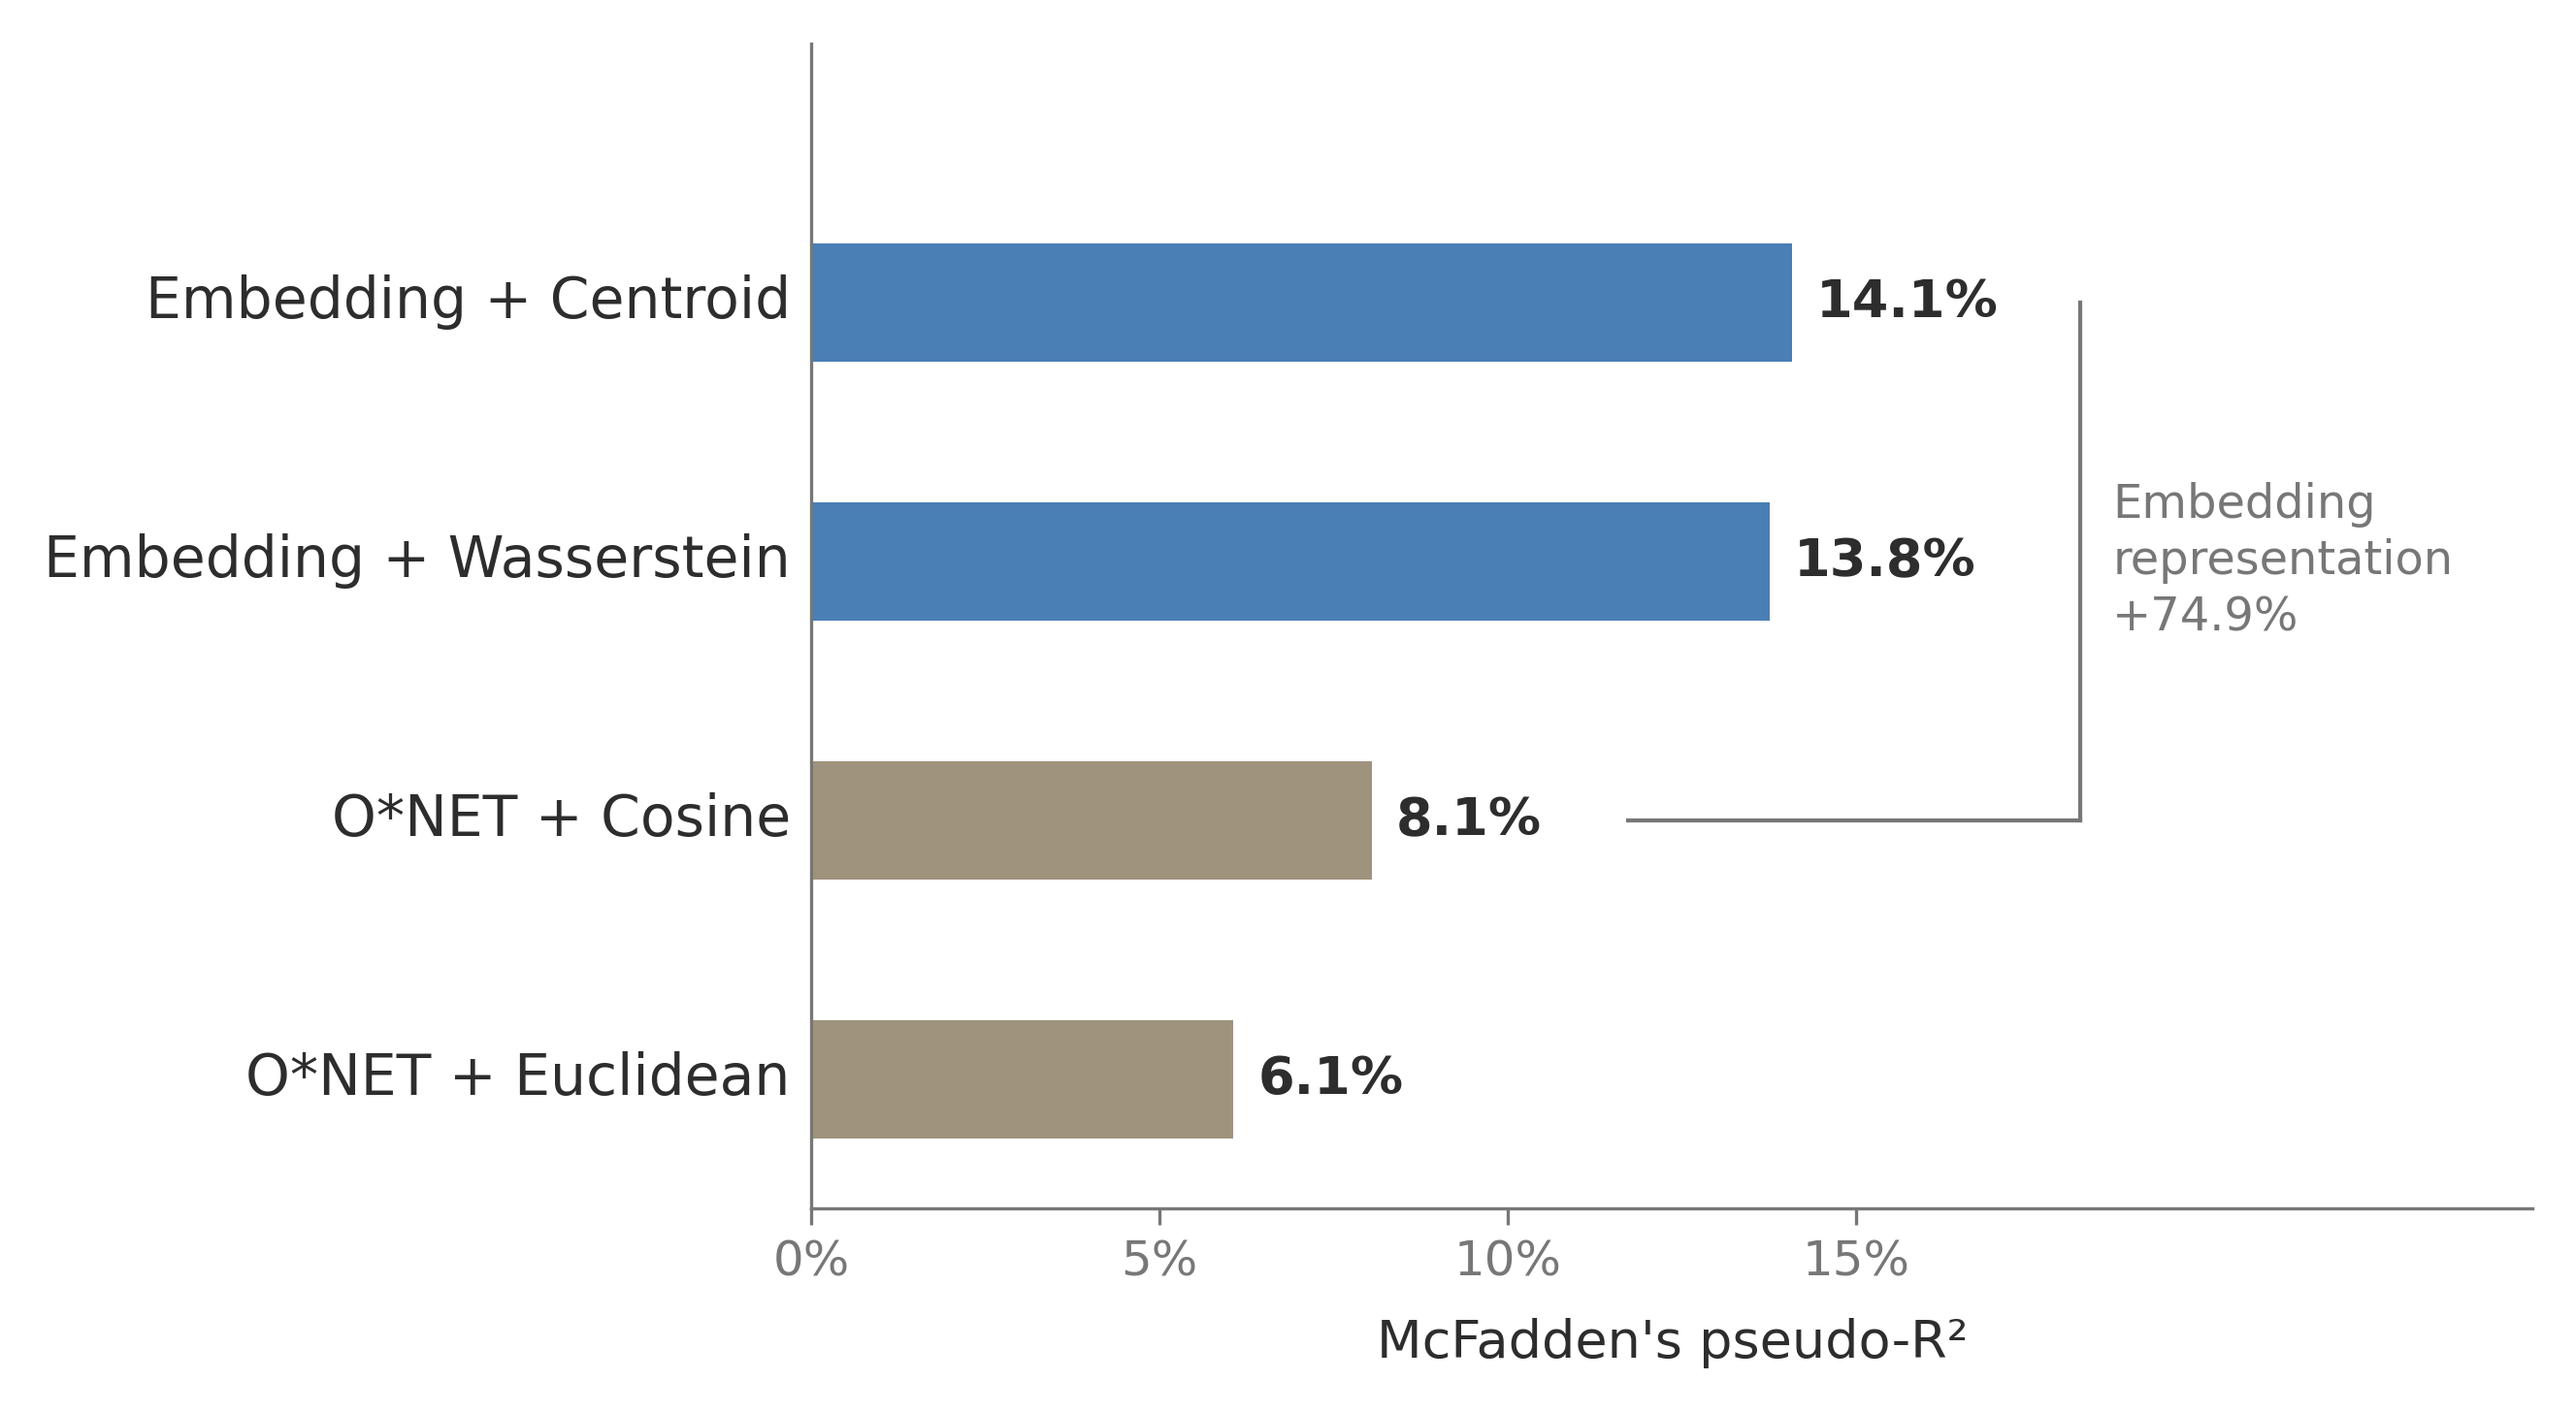
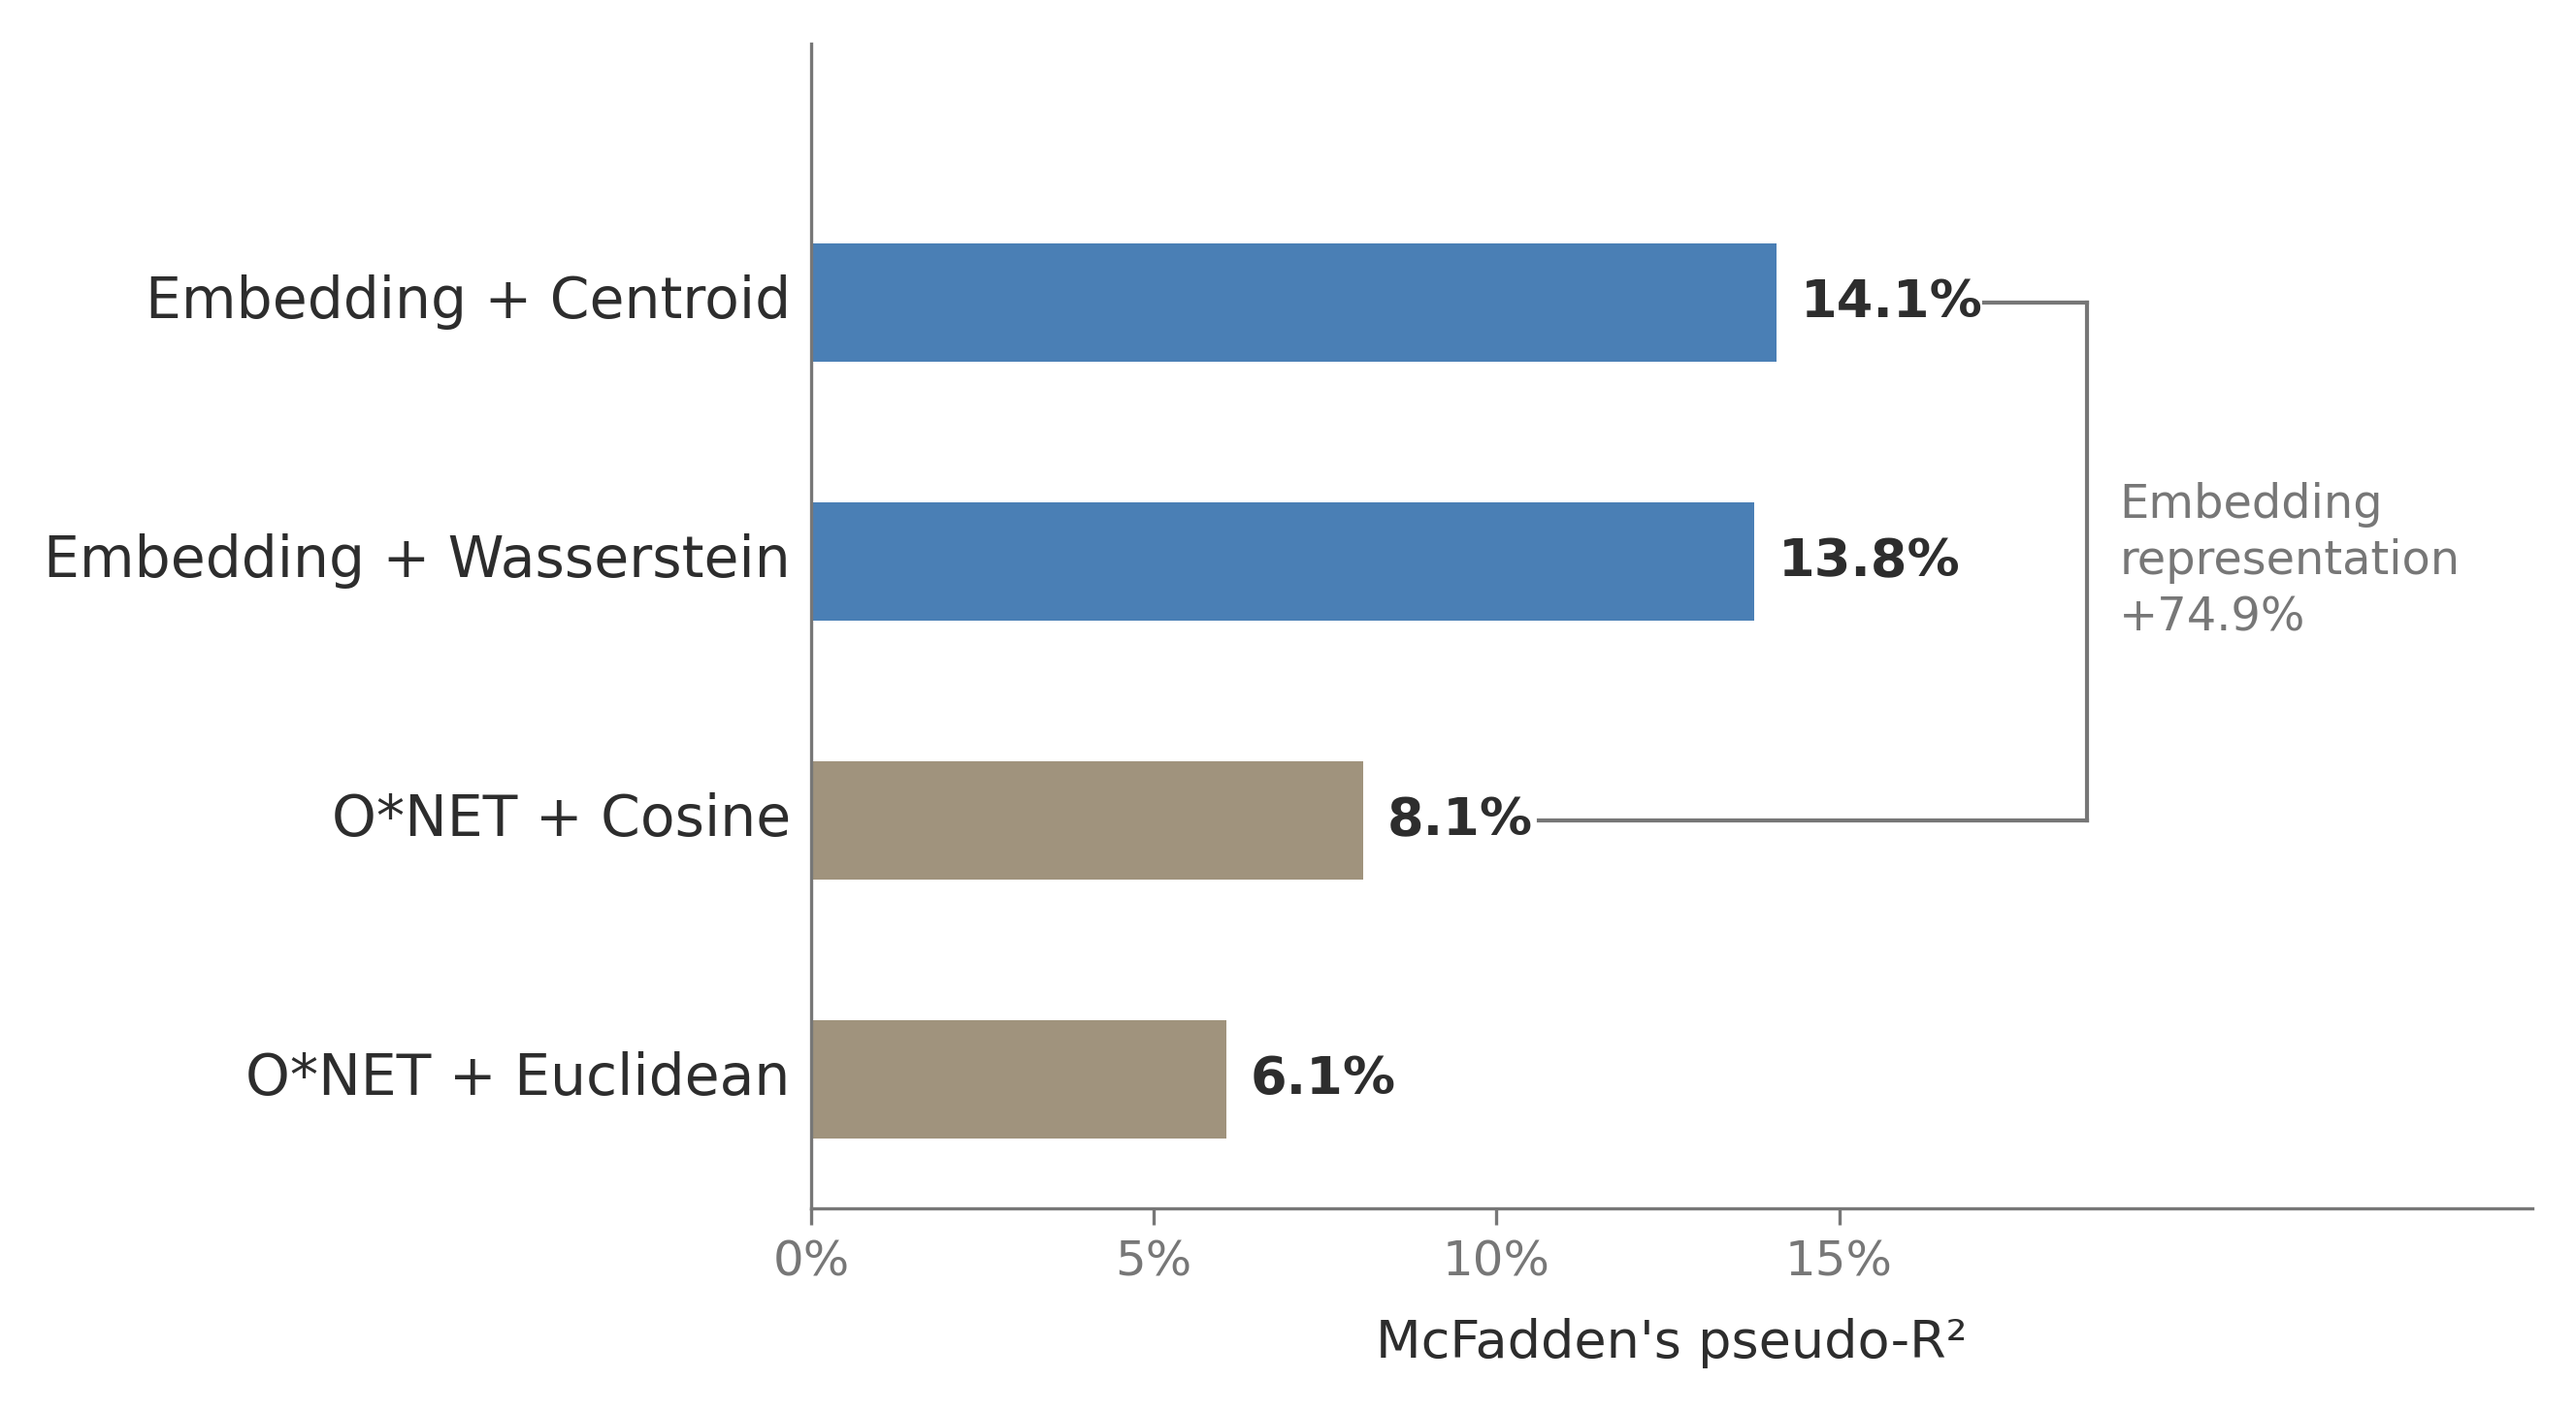
v0.7.8.5: Fix fig2 top tick zero-length bug
Top tick was invisible because x_tick_top == x_bracket (both used
same padding from label edge). Now separate gap (0.4 units from label
to tick start) from bracket_ext (1.5 units of tick length), so
x_bracket = label_right + gap + bracket_ext while tick starts at
label_right + gap.

diff --git a/figures/fig2_pseudo_r2.py b/figures/fig2_pseudo_r2.py
@@ -90,25 +90,26 @@ for child in ax.get_children():
     except Exception:
         continue
 
-padding = 1.5  # data units of padding after text
+gap = 0.4       # small gap between label text and start of horizontal tick
+bracket_ext = 1.5  # how far the vertical line extends beyond the top label
 
 if 'top' in label_right_edges and 'bottom' in label_right_edges:
-    # Vertical line x = rightmost label edge + padding
-    x_bracket = max(label_right_edges.values()) + padding
-
     y_bottom = bracket_bars['bottom']
     y_top = bracket_bars['top']
 
-    # Horizontal ticks: each starts at its own label's right edge + padding
-    x_tick_top = label_right_edges['top'] + padding
-    x_tick_bottom = label_right_edges['bottom'] + padding
+    # Vertical line sits well past the rightmost (top) label
+    x_bracket = label_right_edges['top'] + gap + bracket_ext
+
+    # Each horizontal tick starts just after its own label
+    x_tick_top_start = label_right_edges['top'] + gap
+    x_tick_bottom_start = label_right_edges['bottom'] + gap
 
     # Vertical line
     ax.plot([x_bracket, x_bracket], [y_bottom, y_top], color=MID, lw=1.0, zorder=3)
-    # Top tick: from label edge+padding to vertical line
-    ax.plot([x_tick_top, x_bracket], [y_top, y_top], color=MID, lw=1.0, zorder=3)
-    # Bottom tick: from label edge+padding to vertical line (spans the whitespace)
-    ax.plot([x_tick_bottom, x_bracket], [y_bottom, y_bottom], color=MID, lw=1.0, zorder=3)
+    # Top tick
+    ax.plot([x_tick_top_start, x_bracket], [y_top, y_top], color=MID, lw=1.0, zorder=3)
+    # Bottom tick (longer, spans the whitespace)
+    ax.plot([x_tick_bottom_start, x_bracket], [y_bottom, y_bottom], color=MID, lw=1.0, zorder=3)
 
     ax.annotate('Embedding\nrepresentation\n+74.9%',
                 xy=(x_bracket, (y_bottom + y_top) / 2), xycoords='data',
@@ -116,7 +117,6 @@ if 'top' in label_right_edges and 'bottom' in label_right_edges:
                 ha='left', va='center', fontsize=11.5, color=MID,
                 linespacing=1.3)
 
-    # Adjust xlim to fit annotation
     ax.set_xlim(0, x_bracket + 6.5)
 else:
     print("WARNING: Could not find label text extents, bracket not drawn")

diff --git a/LEDGER.md b/LEDGER.md
@@ -1,6 +1,6 @@
 # LEDGER.md — Task-Space Oracle Research State
 
-**Current Version:** 0.7.8.4
+**Current Version:** 0.7.8.5
 **Last Updated:** 2026-03-09
 **Paper Draft:** `paper/main.tex`
 
@@ -759,6 +759,7 @@ Deprecated approaches. Do not retry.
 
 | Version | Date | Changes |
 |---------|------|---------|
+| 0.7.8.5 | 2026-03-09 | Fix fig2 top tick zero-length bug: separate gap (0.4) from bracket_ext (1.5). |
 | 0.7.8.4 | 2026-03-09 | Precise improvement percentage (74.9%) across all files; fix fig2 bracket padding. |
 | 0.7.8.3 | 2026-03-09 | Programmatic fig2 bracket alignment from text extents — no hardcoded positions. |
 | 0.7.8.2 | 2026-03-09 | Fix fig2 bracket alignment (dynamic x position) and label text (→ to +). |
